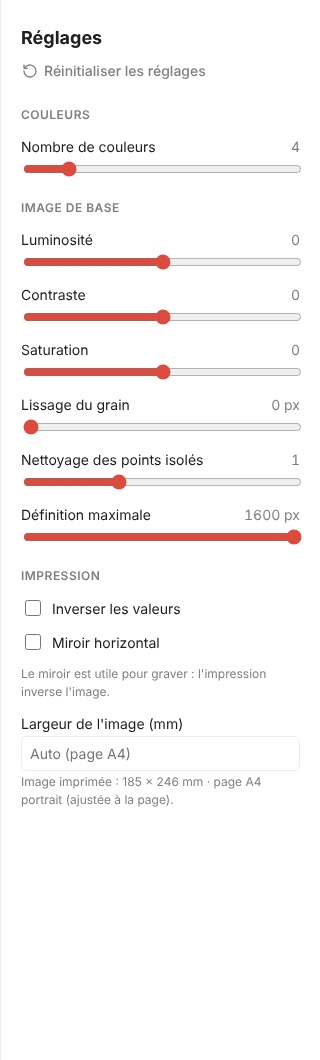
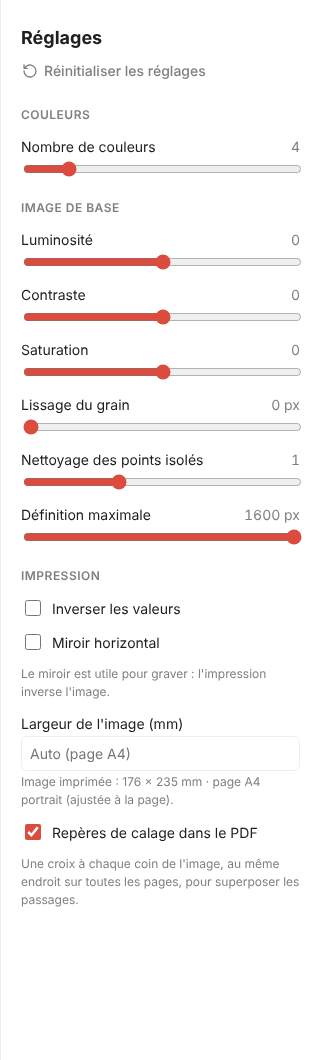
feat(pdf): repères de calage sur les pages du PDF
Quatre croix de repérage (cercle et croix) aux coins de l'image, tracées
aux mêmes coordonnées sur toutes les pages, hors de l'image et de la légende.
Case « Repères de calage dans le PDF » (activée par défaut, enregistrée avec
le projet). Marges de page portées à 48 pt pour leur laisser la place.
Tests unitaires et e2e, README et captures mis à jour.

Claude-Session: https://claude.ai/code/session_01JUgPasNjVoT3TfD4y5V7Mf

diff --git a/src/core/pdf.test.ts b/src/core/pdf.test.ts
@@ -1,6 +1,6 @@
 import { inflateSync } from 'node:zlib';
 import { describe, expect, test } from 'vitest';
-import { layersToPdf, packMask, pageLayout, PT_PER_MM, type PdfLayerPage } from './pdf';
+import { layersToPdf, packMask, PAGE_MARGIN, pageLayout, PT_PER_MM, registrationMarks, type PdfLayerPage } from './pdf';
 
 const latin1 = (bytes: Uint8Array) => Buffer.from(bytes).toString('latin1');
 
@@ -40,9 +40,9 @@ describe('pageLayout', () => {
   ])('image %ix%i : proportions conservées et contenue dans les marges', (w, h) => {
     const l = pageLayout(w, h);
     expect(l.w / l.h).toBeCloseTo(w / h, 6);
-    expect(l.x).toBeGreaterThanOrEqual(36 - 1e-9);
-    expect(l.y).toBeGreaterThanOrEqual(36 - 1e-9);
-    expect(l.x + l.w).toBeLessThanOrEqual(l.pageWidth - 36 + 1e-9);
+    expect(l.x).toBeGreaterThanOrEqual(PAGE_MARGIN - 1e-9);
+    expect(l.y).toBeGreaterThanOrEqual(PAGE_MARGIN - 1e-9);
+    expect(l.x + l.w).toBeLessThanOrEqual(l.pageWidth - PAGE_MARGIN + 1e-9);
     expect(l.y + l.h).toBeLessThan(l.captionY);
   });
 
@@ -68,7 +68,7 @@ describe('pageLayout avec une largeur en mm', () => {
 
   test.each([
     [100, 'A4'],
-    [180, 'A4'],
+    [170, 'A4'],
     [250, 'A3'],
     [380, 'A2'],
     [560, 'A1'],
@@ -87,8 +87,8 @@ describe('pageLayout avec une largeur en mm', () => {
     const l = pageLayout(500, 500, 1500);
     expect(l.format).toBe('sur mesure');
     expect(l.tooLarge).toBe(false);
-    expect(l.x).toBeCloseTo(36, 6);
-    expect(l.x + l.w).toBeCloseTo(l.pageWidth - 36, 6);
+    expect(l.x).toBeCloseTo(PAGE_MARGIN, 6);
+    expect(l.x + l.w).toBeCloseTo(l.pageWidth - PAGE_MARGIN, 6);
     expect(l.y + l.h).toBeLessThan(l.captionY);
   });
 
@@ -99,11 +99,60 @@ describe('pageLayout avec une largeur en mm', () => {
   test('l\'image reste dans la page et sous la légende, quel que soit le format choisi', () => {
     for (const mm of [30, 150, 200, 300, 450, 700, 1000]) {
       const l = pageLayout(640, 480, mm);
-      expect(l.x).toBeGreaterThanOrEqual(36 - 1e-6);
-      expect(l.x + l.w).toBeLessThanOrEqual(l.pageWidth - 36 + 1e-6);
-      expect(l.y).toBeGreaterThanOrEqual(36 - 1e-6);
+      expect(l.x).toBeGreaterThanOrEqual(PAGE_MARGIN - 1e-6);
+      expect(l.x + l.w).toBeLessThanOrEqual(l.pageWidth - PAGE_MARGIN + 1e-6);
+      expect(l.y).toBeGreaterThanOrEqual(PAGE_MARGIN - 1e-6);
       expect(l.y + l.h).toBeLessThanOrEqual(l.captionY + 1e-6);
     }
+  });
+});
+
+describe('registrationMarks', () => {
+  const sizes: [number, number, number][] = [
+    [500, 500, 0],
+    [1600, 900, 0],
+    [300, 1200, 0],
+    [640, 480, 120],
+    [640, 480, 380],
+    [300, 1200, 150],
+    [500, 500, 1500],
+  ];
+
+  test('quatre repères, un par coin, décalés en diagonale vers l\'extérieur', () => {
+    const l = pageLayout(640, 480, 120);
+    const marks = registrationMarks(l);
+    expect(marks).toHaveLength(4);
+    const [bl, br, tl, tr] = marks;
+    expect(bl[0]).toBeLessThan(l.x);
+    expect(bl[1]).toBeLessThan(l.y);
+    expect(br[0]).toBeGreaterThan(l.x + l.w);
+    expect(br[1]).toBeLessThan(l.y);
+    expect(tl[0]).toBeLessThan(l.x);
+    expect(tl[1]).toBeGreaterThan(l.y + l.h);
+    expect(tr[0]).toBeGreaterThan(l.x + l.w);
+    expect(tr[1]).toBeGreaterThan(l.y + l.h);
+    expect(bl[0] - tl[0]).toBeCloseTo(0, 9);
+    expect(br[0] - tr[0]).toBeCloseTo(0, 9);
+  });
+
+  test.each(sizes)('image %ix%i, largeur %i mm : repères dans la page, à 6 mm du bord au moins', (w, h, mm) => {
+    const l = pageLayout(w, h, mm);
+    const clearance = 6 * PT_PER_MM - 1e-6;
+    for (const [cx, cy] of registrationMarks(l)) {
+      expect(cx - 9).toBeGreaterThanOrEqual(clearance);
+      expect(cy - 9).toBeGreaterThanOrEqual(clearance);
+      expect(l.pageWidth - (cx + 9)).toBeGreaterThanOrEqual(clearance);
+      expect(l.pageHeight - (cy + 9)).toBeGreaterThanOrEqual(clearance);
+    }
+  });
+
+  test.each(sizes)('image %ix%i, largeur %i mm : les repères du haut ne touchent pas la légende', (w, h, mm) => {
+    const l = pageLayout(w, h, mm);
+    for (const [, cy] of registrationMarks(l)) expect(cy + 9).toBeLessThanOrEqual(l.captionY - 2);
+  });
+
+  test('mêmes repères pour deux calques de même taille', () => {
+    expect(registrationMarks(pageLayout(800, 600, 200))).toEqual(registrationMarks(pageLayout(800, 600, 200)));
   });
 });
 
@@ -178,5 +227,23 @@ describe('layersToPdf', () => {
 
   test('widthMm trop grand pour une page PDF -> RangeError', async () => {
     await expect(layersToPdf([page(10, 10, () => true)], { widthMm: 6000 })).rejects.toThrow(RangeError);
+  });
+
+  test('repères de calage : 4 croix (16 courbes) par page, désactivables', async () => {
+    const curves = (text: string) => (text.match(/\d c\n/g) ?? []).length;
+    const withMarks = latin1(await layersToPdf(pages));
+    expect(curves(withMarks)).toBe(4 * 4 * pages.length);
+    const explicit = latin1(await layersToPdf(pages, { registrationMarks: true }));
+    expect(curves(explicit)).toBe(curves(withMarks));
+    const without = latin1(await layersToPdf(pages, { registrationMarks: false }));
+    expect(curves(without)).toBe(0);
+    expect(without.length).toBeLessThan(withMarks.length);
+  });
+
+  test('les repères sont aux mêmes coordonnées sur toutes les pages', async () => {
+    const text = latin1(await layersToPdf(pages));
+    const blocks = [...text.matchAll(/q 0 G 0\.5 w\n([^Q]*)Q\n/g)].map((m) => m[1]);
+    expect(blocks).toHaveLength(pages.length);
+    expect(new Set(blocks).size).toBe(1);
   });
 });

diff --git a/src/core/pdf.ts b/src/core/pdf.ts
@@ -13,6 +13,8 @@ export interface PdfOptions {
   title?: string;
   /** Largeur de l'image sur le papier, en mm. 0 ou absent : image ajustée à une page A4. */
   widthMm?: number;
+  /** Croix de repérage aux quatre coins de l'image (par défaut : oui). */
+  registrationMarks?: boolean;
 }
 
 export interface PageLayout {
@@ -36,10 +38,16 @@ export interface PageLayout {
 }
 
 export const PT_PER_MM = 72 / 25.4;
-const MARGIN = 36;
-const CAPTION_BAND = 28;
+const MARGIN = 48;
+/** Marge de la page, en points : l'image et les repères restent à l'intérieur. */
+export const PAGE_MARGIN = MARGIN;
+const CAPTION_BAND = 44;
 const CAPTION_SIZE = 11;
 const SWATCH = 10;
+/** Croix de repérage : distance (en diagonale) au coin de l'image, rayon du cercle, demi-longueur des branches. */
+const MARK_OFFSET = 20;
+const MARK_RADIUS = 5;
+const MARK_ARM = 9;
 const MAX_PAGE_PT = 14400;
 /** Formats ISO (côté court, côté long en mm), du plus petit au plus grand. */
 const FORMATS = [
@@ -105,6 +113,21 @@ export function pageLayout(width: number, height: number, widthMm = 0): PageLayo
   return place(needW, needH, w, h, 'sur mesure');
 }
 
+/**
+ * Centres des quatre croix de repérage : un par coin du cadre de l'image, décalé vers l'extérieur en diagonale
+ * (bas gauche, bas droite, haut gauche, haut droite). Elles ne dépendent que de la disposition : identiques sur toutes les pages.
+ */
+export function registrationMarks(layout: PageLayout): [number, number][] {
+  const { x, y, w, h } = layout;
+  const d = MARK_OFFSET;
+  return [
+    [x - d, y - d],
+    [x + w + d, y - d],
+    [x - d, y + h + d],
+    [x + w + d, y + h + d],
+  ];
+}
+
 /** Masque (1 = encre) → bitmap 1 bit par pixel, lignes alignées sur l'octet. Bit 0 = noir (encre), 1 = blanc. */
 export function packMask(mask: Uint8Array, width: number, height: number): Uint8Array {
   const rowBytes = Math.ceil(width / 8);
@@ -158,6 +181,32 @@ function concat(parts: Uint8Array[]): Uint8Array {
   return out;
 }
 
+/** Opérateurs PDF des croix de repérage : un cercle et deux traits en noir, 0,5 pt, une opération par ligne. */
+function marksContent(layout: PageLayout): string {
+  const r = MARK_RADIUS;
+  const k = 0.5523 * r;
+  const lines = ['q 0 G 0.5 w'];
+  for (const [cx, cy] of registrationMarks(layout)) {
+    const p = (dx: number, dy: number) => `${num(cx + dx)} ${num(cy + dy)}`;
+    lines.push(
+      `${p(-MARK_ARM, 0)} m`,
+      `${p(MARK_ARM, 0)} l`,
+      'S',
+      `${p(0, -MARK_ARM)} m`,
+      `${p(0, MARK_ARM)} l`,
+      'S',
+      `${p(r, 0)} m`,
+      `${p(r, k)} ${p(k, r)} ${p(0, r)} c`,
+      `${p(-k, r)} ${p(-r, k)} ${p(-r, 0)} c`,
+      `${p(-r, -k)} ${p(-k, -r)} ${p(0, -r)} c`,
+      `${p(k, -r)} ${p(r, -k)} ${p(r, 0)} c`,
+      'S',
+    );
+  }
+  lines.push('Q');
+  return lines.join('\n') + '\n';
+}
+
 /**
  * Assemble un PDF multipages : une page par calque, avec l'image en noir et blanc 1 bit, un fin cadre, et une légende
  * précédée d'un carré de la couleur de la teinte. Aucun lecteur ni dépendance : le fichier est écrit à la main.
@@ -197,6 +246,7 @@ export async function layersToPdf(pages: PdfLayerPage[], options: PdfOptions = {
       ascii(' Tj ET\n'),
       ascii(`q ${num(layout.w)} 0 0 ${num(layout.h)} ${num(layout.x)} ${num(layout.y)} cm /Im0 Do Q\n`),
       ascii(`q 0.6 G 0.5 w ${num(layout.x)} ${num(layout.y)} ${num(layout.w)} ${num(layout.h)} re S Q\n`),
+      ascii(options.registrationMarks === false ? '' : marksContent(layout)),
     ]);
 
     const raw = packMask(page.mask, page.width, page.height);

diff --git a/e2e/lino.spec.ts b/e2e/lino.spec.ts
@@ -98,6 +98,7 @@ test('les réglages sont enregistrés avec le projet et teintes choisies conserv
   await page.getByLabel('Contraste').fill('20');
   await page.getByLabel('Miroir horizontal').check();
   await page.getByLabel("Largeur de l'image (mm)").fill('150');
+  await page.getByLabel('Repères de calage dans le PDF').uncheck();
   // Un réglage qui ne change pas le nombre de calques garde la teinte choisie à la main.
   await expect(page.getByTestId('layer-card')).toHaveCount(4);
   await expect(page.getByLabel('Teinte du calque 1')).toHaveValue('gris-payne');
@@ -110,6 +111,7 @@ test('les réglages sont enregistrés avec le projet et teintes choisies conserv
   await expect(page.getByLabel('Contraste')).toHaveValue('20');
   await expect(page.getByLabel('Miroir horizontal')).toBeChecked();
   await expect(page.getByLabel("Largeur de l'image (mm)")).toHaveValue('150');
+  await expect(page.getByLabel('Repères de calage dans le PDF')).not.toBeChecked();
   await expect(page.getByLabel('Teinte du calque 1')).toHaveValue('gris-payne');
 });
 
@@ -167,4 +169,26 @@ test('la largeur en mm fixe la taille de l\'image dans le PDF', async ({ page })
   await width.fill('99999'); // plafonné à 2000 mm
   await expect(width).toHaveValue('2000');
   await expect(page.getByRole('alert')).toHaveCount(0);
+});
+
+test('les repères de calage sont dans le PDF par défaut et se désactivent', async ({ page }) => {
+  await page.goto('/');
+  await page.getByTestId('file-input').setInputFiles({ name: 'quad.png', mimeType: 'image/png', buffer: quadrantsPng() });
+  await expect(page.getByTestId('layer-card')).toHaveCount(4);
+  const marks = page.getByLabel('Repères de calage dans le PDF');
+  await expect(marks).toBeChecked();
+
+  const exportPdf = async () => {
+    const [download] = await Promise.all([
+      page.waitForEvent('download'),
+      page.getByRole('button', { name: 'Exporter tous les calques (PDF)' }).click(),
+    ]);
+    return readFileSync(await download.path()).toString('latin1');
+  };
+  const curves = (text: string) => (text.match(/\d c\n/g) ?? []).length;
+
+  // 4 croix (cercle = 4 courbes) par page, 4 pages
+  expect(curves(await exportPdf())).toBe(4 * 4 * 4);
+  await marks.uncheck();
+  expect(curves(await exportPdf())).toBe(0);
 });

diff --git a/src/ui/App.tsx b/src/ui/App.tsx
@@ -67,7 +67,7 @@ export function App() {
   const { brightness, contrast, saturation, blur, cleanup, invert, mirror, definition } = applied;
   // La définition agit au chargement de l'image, pas dans le worker.
   const processSettings = useMemo<Settings>(
-    () => ({ brightness, contrast, saturation, blur, cleanup, invert, mirror, definition: DEFAULT_SETTINGS.definition, printWidthMm: DEFAULT_SETTINGS.printWidthMm }),
+    () => ({ brightness, contrast, saturation, blur, cleanup, invert, mirror, definition: DEFAULT_SETTINGS.definition, printWidthMm: DEFAULT_SETTINGS.printWidthMm, registrationMarks: DEFAULT_SETTINGS.registrationMarks }),
     [brightness, contrast, saturation, blur, cleanup, invert, mirror],
   );
 
@@ -254,7 +254,7 @@ export function App() {
           color: colors[k],
         };
       });
-      const bytes = await layersToPdf(pages, { title: `${base} \u00b7 calques`, widthMm: settings.printWidthMm });
+      const bytes = await layersToPdf(pages, { title: `${base} \u00b7 calques`, widthMm: settings.printWidthMm, registrationMarks: settings.registrationMarks });
       downloadBlob(new Blob([bytes as Uint8Array<ArrayBuffer>], { type: 'application/pdf' }), `${base}-calques.pdf`);
     } catch (e) {
       setError(e instanceof Error ? e.message : "Impossible de créer le PDF.");

diff --git a/src/core/adjust.test.ts b/src/core/adjust.test.ts
@@ -100,8 +100,15 @@ describe('normalizeSettings', () => {
     expect(DEFAULT_SETTINGS.printWidthMm).toBe(0);
   });
 
+  test('repères de calage : activés par défaut, booléen conservé, valeur invalide -> défaut', () => {
+    expect(DEFAULT_SETTINGS.registrationMarks).toBe(true);
+    expect(normalizeSettings({ registrationMarks: false }).registrationMarks).toBe(false);
+    expect(normalizeSettings({ registrationMarks: 'non' }).registrationMarks).toBe(true);
+    expect(normalizeSettings(undefined).registrationMarks).toBe(true);
+  });
+
   test('valeurs valides conservées', () => {
-    const wanted = settings({ brightness: 12, invert: true, mirror: true, definition: 800, cleanup: 2, printWidthMm: 210 });
+    const wanted = settings({ brightness: 12, invert: true, mirror: true, definition: 800, cleanup: 2, printWidthMm: 210, registrationMarks: false });
     expect(normalizeSettings(wanted)).toEqual(wanted);
   });
 });

diff --git a/src/core/adjust.ts b/src/core/adjust.ts
@@ -11,6 +11,8 @@ export interface Settings {
   definition: number;
   /** Largeur de l'image à l'impression (export PDF), en mm. 0 = ajustée à une page A4. */
   printWidthMm: number;
+  /** Croix de repérage aux coins de l'image sur chaque page du PDF. */
+  registrationMarks: boolean;
 }
 
 export const DEFAULT_SETTINGS: Settings = {
@@ -23,6 +25,7 @@ export const DEFAULT_SETTINGS: Settings = {
   mirror: false,
   definition: 1600,
   printWidthMm: 0,
+  registrationMarks: true,
 };
 
 export const SETTING_LIMITS = {
@@ -57,6 +60,7 @@ export function normalizeSettings(raw: unknown): Settings {
     mirror: typeof r.mirror === 'boolean' ? r.mirror : DEFAULT_SETTINGS.mirror,
     definition: numeric(r, 'definition'),
     printWidthMm: numeric(r, 'printWidthMm'),
+    registrationMarks: typeof r.registrationMarks === 'boolean' ? r.registrationMarks : DEFAULT_SETTINGS.registrationMarks,
   };
 }
 

diff --git a/src/ui/SettingsPanel.tsx b/src/ui/SettingsPanel.tsx
@@ -110,6 +110,15 @@ export function SettingsPanel({ n, onN, settings, onChange, onReset, printLayout
           />
           <p className={info.warning ? 'hint is-warning' : 'hint'}>{info.text}</p>
         </div>
+        <label className="check">
+          <input
+            type="checkbox"
+            checked={settings.registrationMarks}
+            onChange={(e) => onChange({ registrationMarks: e.target.checked })}
+          />
+          Repères de calage dans le PDF
+        </label>
+        <p className="hint">Une croix à chaque coin de l'image, au même endroit sur toutes les pages, pour superposer les passages.</p>
       </section>
     </aside>
   );

diff --git a/README.md b/README.md
@@ -61,6 +61,7 @@ Les calques sont triés du plus clair (calque 1) au plus sombre. Chaque ligne in
 | Inverser les valeurs | Échange clairs et foncés. |
 | Miroir horizontal | Retourne l'image de gauche à droite. L'impression inverse l'image : graver à l'envers donne un tirage dans le bon sens, ce qui compte surtout avec du texte. |
 | Largeur de l'image (mm) | Taille de l'image sur le papier dans l'export PDF, de 1 à 2000 mm ; la hauteur suit les proportions. Vide : l'image est ajustée à une page A4. Le panneau indique la taille obtenue et le format de page choisi. |
+| Repères de calage dans le PDF | Ajoute une croix de repérage à chaque coin de l'image sur toutes les pages du PDF (activé par défaut). |
 
 « Réinitialiser les réglages » remet tout à zéro (et 4 couleurs).
 
@@ -69,7 +70,9 @@ Les calques sont triés du plus clair (calque 1) au plus sombre. Chaque ligne in
 - **Exporter le calque K** : un PNG noir et blanc nommé `calque-K.png` (noir = encre).
 - **Exporter tous les calques (PDF)** : un seul fichier `<nom>-calques.pdf`, une page par calque. Chaque page porte une
   légende avec la couleur de la teinte, son nom et sa référence (par exemple « Calque 2/4 · Jaune foncé · réf. 490473 »).
-  L'image est au même endroit sur toutes les pages, ce qui aide à repérer les passages les uns sur les autres.
+  L'image est au même endroit sur toutes les pages, et quatre **repères de calage** (une croix dans un cercle à chaque
+  coin, juste à l'extérieur de l'image) sont tracés aux mêmes coordonnées : ils permettent de superposer les passages ou
+  de repositionner la feuille d'un tirage à l'autre. On peut les désactiver (« Repères de calage dans le PDF »).
   - Sans **largeur** indiquée : page A4 (en portrait ou en paysage selon l'image), image ajustée à la page.
   - Avec une **largeur en mm** (réglage « Largeur de l'image » de la section Impression) : l'image est imprimée à cette
     taille exacte. Lino choisit le plus petit format de page (A4, A3, A2, A1, A0) où elle tient avec ses marges, et une
@@ -171,14 +174,20 @@ pages, police Helvetica (légendes en Latin-1), puis trois objets par page (page
 
 `pageLayout(width, height, widthMm)` calcule la page de chaque calque :
 - **sans largeur** (`widthMm` nul) : A4, en paysage si l'image est plus large que haute, image mise à l'échelle pour
-  tenir dans les marges (36 pt) sous la légende ;
+  tenir dans les marges (48 pt) sous la légende ;
 - **avec une largeur** : l'image est placée à cette taille exacte (mm → points, 72 / 25,4), et la page est le plus petit
   format ISO (A4 à A0, orientation de l'image d'abord) où elle tient avec marges et légende ; au-delà de l'A0, la page est
   sur mesure. `tooLarge` signale une page de plus de 14 400 pt (200 pouces, limite des lecteurs PDF) : `layersToPdf` lève
   alors une `RangeError` et l'interface désactive le bouton.
 
-La disposition ne dépend que des dimensions de l'image et de la largeur, donc tous les calques tombent au même endroit. Elle
-renvoie aussi le format retenu et la taille imprimée, que le panneau de réglages affiche. La largeur est le réglage
+La disposition ne dépend que des dimensions de l'image et de la largeur, donc tous les calques tombent au même endroit.
+
+`registrationMarks(layout)` donne les centres des quatre **repères de calage** : un par coin du cadre de l'image, décalé
+de 20 pt vers l'extérieur en diagonale. Chaque repère est un cercle (rayon 5 pt) et deux traits (demi-longueur 9 pt), en noir à
+0,5 pt (`marksContent`). La marge de page (48 pt) et la hauteur réservée à la légende garantissent que les repères restent
+à plus de 6 mm du bord du papier et ne touchent pas la légende, quelle que soit la taille de l'image ; des tests le
+vérifient pour plusieurs formats. L'option `registrationMarks` de `layersToPdf` (réglage `registrationMarks`, activé par
+défaut, enregistré avec le projet) les désactive. La disposition renvoie aussi le format retenu et la taille imprimée, que le panneau de réglages affiche. La largeur est le réglage
 `printWidthMm` (0 = automatique, 2000 mm au plus), enregistré avec le projet comme les autres. Les caractères hors Latin-1
 d'une légende sont remplacés par « ? ». L'interface (`exportPdf` dans `App.tsx`) compose les légendes à partir des teintes
 choisies et télécharge le fichier.
@@ -229,9 +238,9 @@ mode sans sauvegarde et le signale dans la barre latérale.
 - **Vitest** (`npm test`) : couleur, quantification (nombre de calques, transparence, image unie, N hors bornes),
   réglages, calques (masques disjoints couvrant l'image), palettes, client de worker (annulation, réponses périmées),
   redimensionnement, projets (IndexedDB simulée, fichier projet), export PDF (bit à bit, table `xref`, images relues
-  après décompression, échappement des légendes, choix du format de page selon la largeur en mm).
+  après décompression, échappement des légendes, choix du format de page selon la largeur en mm, position des repères de calage).
 - **Playwright** (`npm run e2e`) : charger une image, séparer en 4 calques, changer N, attribuer des teintes, exporter,
-  fichier qui n'est pas une image, enregistrer puis rouvrir un projet, réglages et réinitialisation, export PDF multipages, largeur en mm (taille de l'image et format de page dans le fichier).
+  fichier qui n'est pas une image, enregistrer puis rouvrir un projet, réglages et réinitialisation, export PDF multipages, largeur en mm (taille de l'image et format de page dans le fichier), repères de calage.
 
 ## Publication
 
